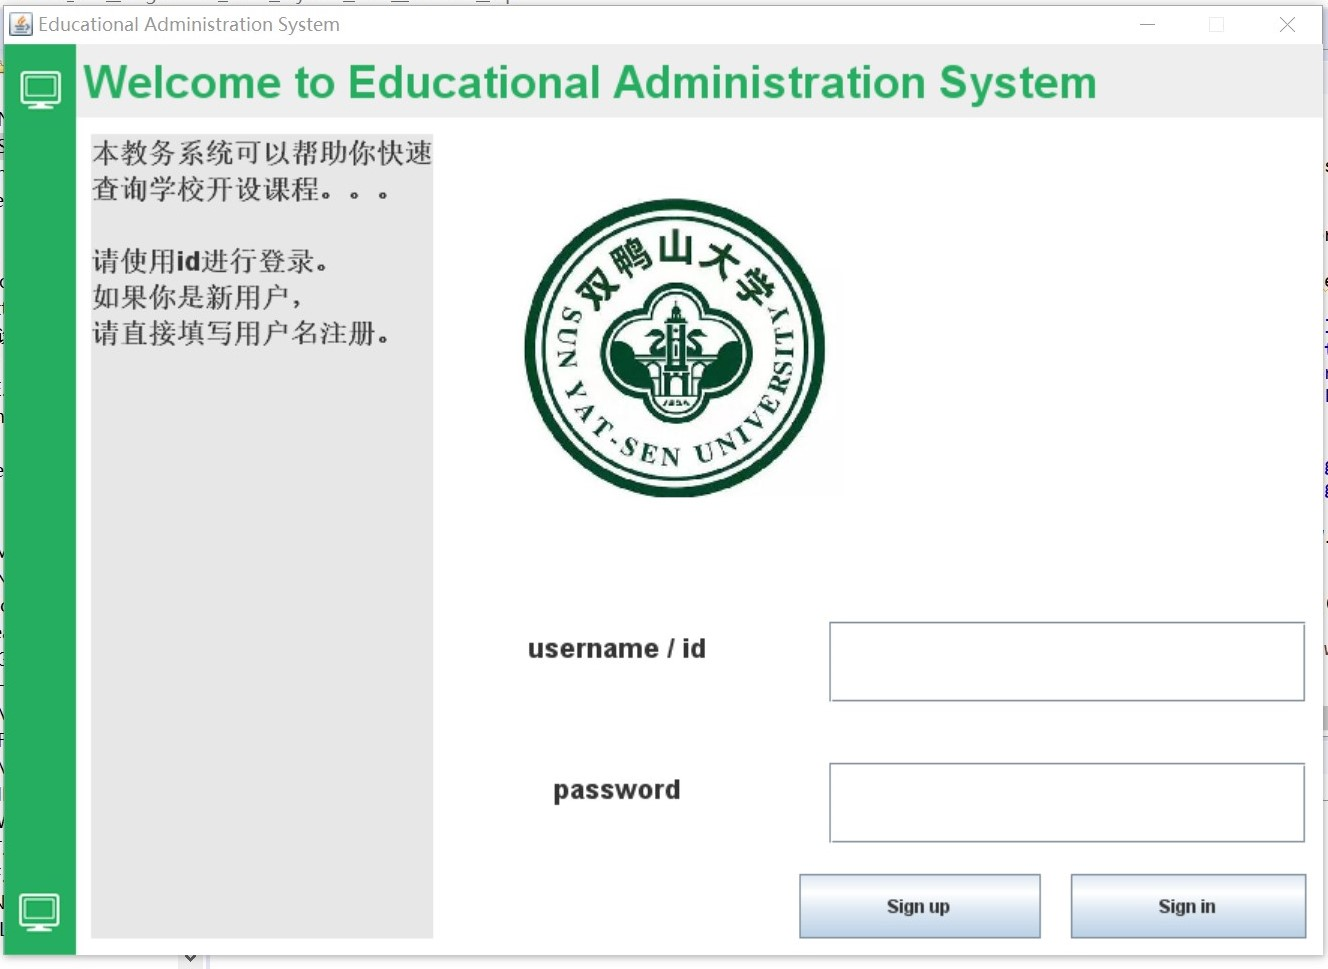
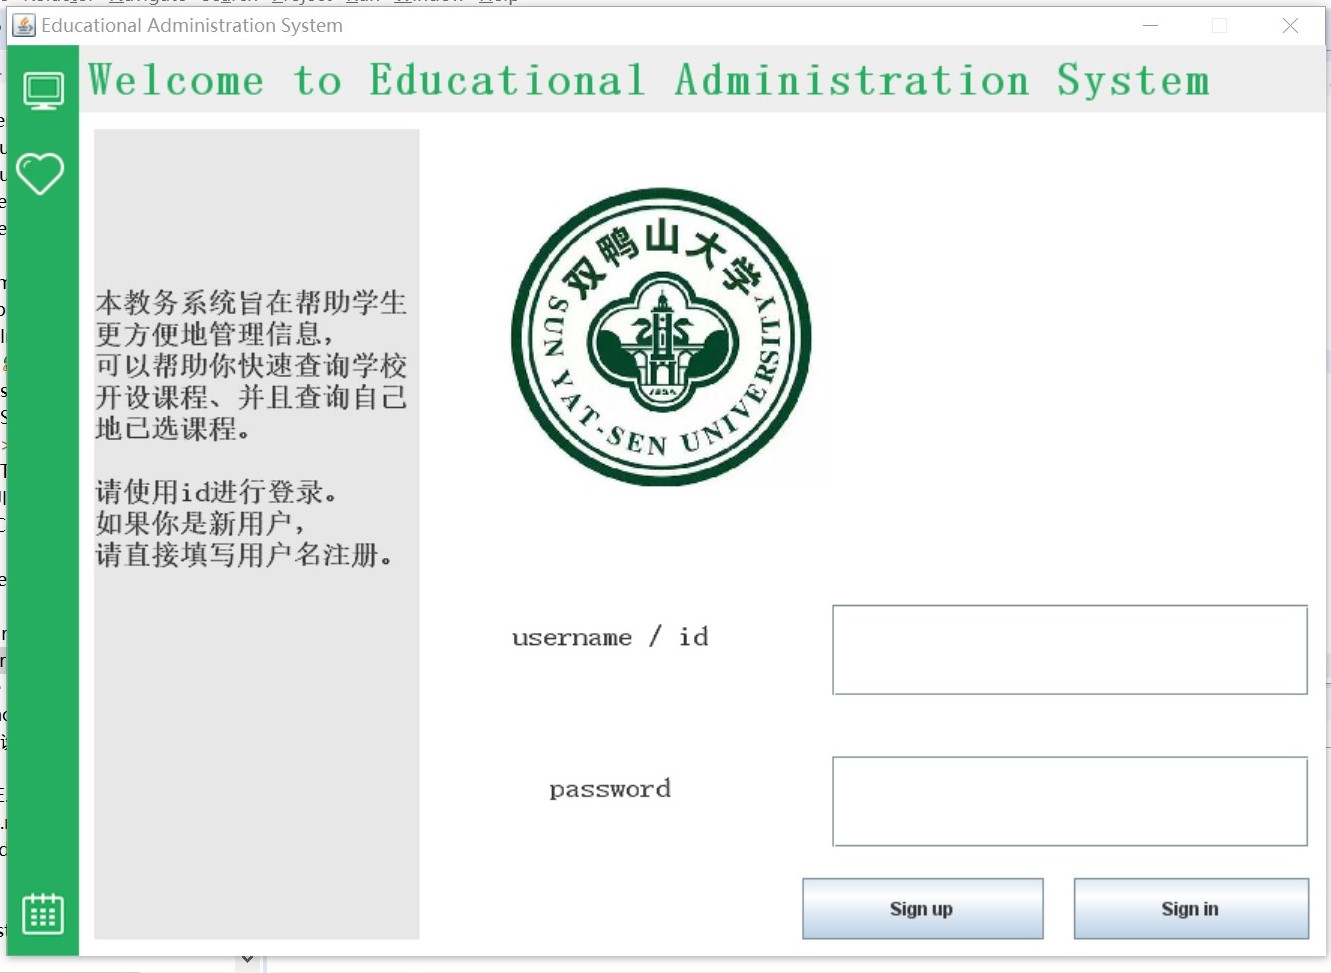
complete report

diff --git a/src/gui/panel/SignInPanel.java b/src/gui/panel/SignInPanel.java
@@ -57,7 +57,9 @@ public class SignInPanel extends JPanel {
 		gbc.fill = GridBagConstraints.BOTH;
 
 		JTextArea intro = new JTextArea(
-				"本教务系统可以帮助你快速查询学校开设课程。。。\n"
+				"\n\n\n\n\n"
+				+ "本教务系统旨在帮助学生更方便地管理信息，\n"
+				+ "可以帮助你快速查询学校开设课程、并且查询自己地已选课程。\n"
 				+ "\n"
 				+ "请使用id进行登录。\n"
 				+ "如果你是新用户，\n"
@@ -167,11 +169,6 @@ public class SignInPanel extends JPanel {
 			Message<String> message = new Message<String>("regi", vec);
 			Client.send(message);
 
-//			window.toolBarPanel.buttonStatus.setEnabled(true);		//用于测试，实际运行时删除（点击后启用侧边栏按钮）
-//			window.toolBarPanel.buttonTimetable.setEnabled(true);//用于测试，实际运行时删除
-//			window.mainPanel.removeAll();//用于测试，实际运行时删除
-//			window.mainPanel.add(window.infoPanel, BorderLayout.CENTER);//用于测试，实际运行时删除
-//			window.mainPanel.updateUI();//用于测试，实际运行时删除
 		});
 
 		signinBtn.addActionListener(e -> {

diff --git a/src/gui/panel/InfoPanel.java b/src/gui/panel/InfoPanel.java
@@ -122,7 +122,7 @@ public class InfoPanel extends JPanel{
         table.getTableHeader().setForeground(UIConst.TOOL_BAR_BACK_COLOR);
         
 		table.setModel(tableModel);
-//		table.setEnabled(false);
+		table.setEnabled(false);
 		table.setRowHeight(36);// 设置表格行宽
 		table.getColumnModel().getColumn(0).setPreferredWidth(50);	//设置列宽
 		table.getTableHeader().setReorderingAllowed(false);		//不让JTABLE中的列任意换位置

diff --git a/report.md b/report.md
@@ -7,14 +7,14 @@
 ### 登录界面
 我们通过应用一开始的登录界面，可以进行注册用户还有登录用户两项功能。
 当然，如果登录时，出现密码错误或者用户不存在的情况，我们也会作出相应的提示。
-<!-- ![Client](/screenshot/client.jpg) -->
-<img style="width: 403.2px;height: 302.4px;" src="/screenshot/client.jpg"/>
+![pwdError](/screenshot/pwdError.jpg)
+<!-- <img style="width: 403.2px;height: 302.4px;" src="/screenshot/client.jpg"/> -->
 
 ### 个人信息修改
 当然，完成注册以后，我们还可以根据需要重新修改我们的个人信息。
 ![modifyInfo](/screenshot/modifyInfo.jpg)
 
-而且通过表格的方式呈现我们的选课信息，我们可以很方便地查询、排序、筛选过滤我们所需的信息。
+而且通过表格的方式呈现我们的选课信息，我们可以很方便地查询、排序我们所需的信息。
 ![CourseTable](/screenshot/courseTable.jpg)
 
 ### 查询课程
@@ -53,7 +53,6 @@ data文件夹用于持久化存储数据，使用了文件存储技术。
 ![logic](/screenshot/logic.jpg)
 #### 客户端
 客户端只有相应的```Client```类，主要作用为创建```socket```并进行相应的接收、处理、发送信息，与服务器进行交互，并根据服务器发来的信息调用```GUI```的方法，对```GUI```进行调整。
-![UMLClient]()
 #### 服务器端
 ```server```包下有三个类：
 1. ```Server```类：用于运行服务器。新建客户端时，```Server```都新建一个线程```NotifyHandler```，用于监听客户端的信息。
@@ -87,8 +86,8 @@ data文件夹用于持久化存储数据，使用了文件存储技术。
 2. 扩展知识点（鼓励挑战）：
     * Java 图形界面
     关于图形界面的设计，上面已经有所介绍。实现出的效果如下：
-    ![]()
-    ![]()
+    ![Client](/screenshot/client.jpg)
+    ![infoPanel](/screenshot/infoPanel.jpg)
     * Java 设计模式
     项目的设计模式使用的是三层架构。
 ## 创新点、技术难点说明
@@ -100,13 +99,12 @@ data文件夹用于持久化存储数据，使用了文件存储技术。
     * 通过点击表头，我们可以对表格进行排序显示。
     * 通过某些关键字，我们可以对相应的表格信息进行模糊查询。
 3. GUI设计
-我们设计了相对人性的图形化界面，主要增加了侧边导航栏的功能方便我们快速的进入我们所需要的功能界面。
+我们设计了相对人性的图形化界面，主要增加了侧边导航栏的功能方便我们快速的进入我们所需要的功能界面，而且我们实现了在同一页面下进行跳转的功能。
 
 ## 存在的尚未解决问题及可改进的方向
 + 由于时间关系，有许多细节可以打磨、功能可以完善；
 1. 我们实现了IconButton，方便为button添加图标，但由于时间问题GUI中未大量使用；
 2. 我们在数据库层面实现了用户与课程的模糊查找和批量修改，但由于时间问题业务逻辑层只使用了部分方法；
-3. 对于各panel我们没有采用继承和接口，优化项目结构；
-
+3. 我们在底层还根据不同的用户设计了三种权限，但囿于时间关系，没有充分利用和实现。
 ## 工作量展示
 ![]()
